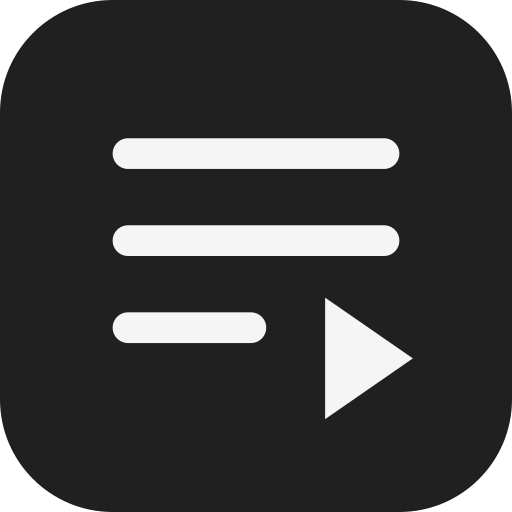
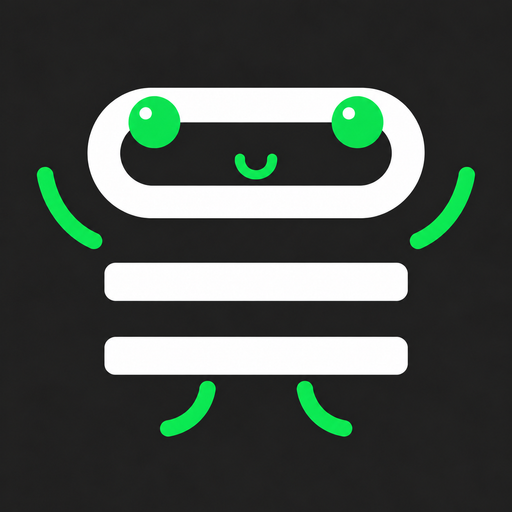
feat(branding): adopt green queue mascot for mobile app

diff --git a/mobile/app/page.tsx b/mobile/app/page.tsx
@@ -179,7 +179,7 @@ export default function Home() {
   const device = playback?.devices?.find(d => d.id === selectedDevice) ?? playback?.device;
   const nav = <>{[['queue', 'queue', 'Queue'], ['requests', 'history', 'Requests'], ['settings', 'settings', 'Settings']].map(([id, icon, label]) => <button key={id} disabled={loading} className={tab === id ? 'active' : ''} onClick={() => setTab(id)} aria-current={tab === id ? 'page' : undefined}><Icon name={icon}/><span>{label}</span></button>)}</>;
   return <div className="app-shell">
-    <header className="app-header"><a className="wordmark" href="/" aria-label="Queue Companion home"><Icon name="queue" size={25}/><span>Queue Companion</span></a><button disabled={loading} className="icon-button profile-button" aria-label="Open account settings" onClick={() => setTab('settings')}><Icon name="user" size={20}/></button></header>
+    <header className="app-header"><a className="wordmark" href="/" aria-label="Queue Companion home"><img className="brand-icon" src="/icon-192.png?v=2" width="34" height="34" alt="" aria-hidden="true"/><span>Queue Companion</span></a><button disabled={loading} className="icon-button profile-button" aria-label="Open account settings" onClick={() => setTab('settings')}><Icon name="user" size={20}/></button></header>
     <aside className="desktop-nav" aria-label="Main navigation">{nav}<p>Made for your queue.<br/>Playback stays in Spotify.</p></aside>
     <main>
       <div className="page-heading"><h1>{tab === 'queue' ? 'Queue' : tab === 'requests' ? 'Your requests' : 'Settings'}</h1>{tab === 'queue' && <button className="icon-button" aria-label="Refresh Spotify queue" disabled={!!busy || loading || cooldown > Date.now()} onClick={() => { setError(''); refresh(); }}><Icon name="refresh" size={21}/></button>}</div>

diff --git a/mobile/public/sw.js b/mobile/public/sw.js
@@ -1,8 +1,12 @@
 // Never cache account data, keys, pages, or queue writes. No background replay.
+const iconCache = 'qc-icons-v2';
 self.addEventListener('install', () => self.skipWaiting());
-self.addEventListener('activate', event => event.waitUntil(self.clients.claim()));
+self.addEventListener('activate', event => event.waitUntil((async () => {
+ await Promise.all((await caches.keys()).filter(name => name.startsWith('qc-icons-') && name !== iconCache).map(name => caches.delete(name)));
+ await self.clients.claim();
+})()));
 self.addEventListener('fetch', event => {
  const url = new URL(event.request.url);
- if (event.request.method !== 'GET' || url.origin !== self.location.origin || !/^\/(?:icon-(?:192|512)\.png|apple-touch-icon\.png|favicon\.svg)$/.test(url.pathname)) return;
- event.respondWith(caches.open('qc-icons-v1').then(async cache => { const cached = await cache.match(event.request); if (cached) return cached; const response = await fetch(event.request); if (response.ok) await cache.put(event.request, response.clone()); return response; }));
+ if (event.request.method !== 'GET' || url.origin !== self.location.origin || !/^\/(?:icon-(?:192|512|maskable-512)\.png|apple-touch-icon\.png|favicon\.(?:svg|png|ico))$/.test(url.pathname)) return;
+ event.respondWith(caches.open(iconCache).then(async cache => { const cached = await cache.match(event.request); if (cached) return cached; const response = await fetch(event.request); if (response.ok) await cache.put(event.request, response.clone()); return response; }));
 });

diff --git a/mobile/app/layout.tsx b/mobile/app/layout.tsx
@@ -4,12 +4,12 @@ import "./globals.css";
 export const metadata: Metadata = {
   title: "Queue Companion",
   description: "Choose what plays next. Add songs to your Spotify queue, then keep listening.",
-  manifest: '/manifest.webmanifest',
+  manifest: '/manifest.webmanifest?v=2',
   appleWebApp: { capable: true, title: 'Queue Companion', statusBarStyle: 'black' },
   icons: {
-    icon: "/favicon.svg",
-    shortcut: "/favicon.svg",
-    apple: '/apple-touch-icon.png',
+    icon: [{ url: '/favicon.png?v=2', type: 'image/png', sizes: '64x64' }],
+    shortcut: '/favicon.ico?v=2',
+    apple: [{ url: '/apple-touch-icon.png?v=2', sizes: '180x180', type: 'image/png' }],
   },
 };
 export const viewport: Viewport = { width: 'device-width', initialScale: 1, viewportFit: 'cover', themeColor: '#121212' };

diff --git a/mobile/app/globals.css b/mobile/app/globals.css
@@ -6,3 +6,4 @@
 
 .device-recovery{border-left:2px solid #1ed760;padding:4px 0 4px 15px;margin:15px 0 22px}.device-recovery p{font-size:13px;line-height:1.7;color:#b3b3b3;margin-bottom:12px}.device-recovery .secondary-button{display:inline-flex}
 .sign-in-prompt{background:var(--panel);border-radius:9px;padding:20px;margin-bottom:25px}.sign-in-prompt p{font-size:13px;line-height:1.65;color:var(--muted);margin:10px 0 17px}.sign-in-prompt .primary-button{max-width:100%}
+.brand-icon{display:block;flex-shrink:0;object-fit:contain;border-radius:7px}

diff --git a/mobile/README.md b/mobile/README.md
@@ -100,3 +100,11 @@ The app refreshes device IDs immediately before sending, combines available-devi
 If Spotify refuses activation, the generated list remains saved for ten minutes. Choose **Open first song in Spotify**, tap Play in Spotify, then return and send the saved selection. This uses the first generated song instead of a throwaway track. Returning or reloading restores the same visitor-owned selection using an opaque session identifier and numeric kept-song indexes (review removals survive the handoff); it makes no new AI request and does not automatically send or replay music. Expired selections remain unavailable.
 
 Spotify documents that iOS App Remote needs an app switch to resume a disconnected paused client, and its native SDK uses a play URI to wake Spotify: [application lifecycle](https://developer.spotify.com/documentation/ios/concepts/application-lifecycle), [initial music configuration](https://developer.spotify.com/documentation/ios/getting-started). A web app cannot guarantee waking a suspended native Spotify client. No background keep-alive loop or native SDK capability is claimed here.
+
+## App icon
+
+The green queue mascot is the app brand, browser icon and iOS Home Screen icon. The master artwork is `public/queue-companion-artwork.png`; run `node scripts/icons.mjs` to regenerate opaque PNG exports, the padded maskable icon, and browser favicons. Metadata and the manifest use versioned icon URLs; the service worker clears only obsolete icon caches and never caches accounts or API requests.
+
+Artwork was made with the built-in image-generation tool from the user's sketch: a polished white queue capsule and two bars, circular eyes, a smile, curved arms and legs on charcoal. The final edit prompt changed only the red details to Spotify-style green while preserving the character, geometry and framing.
+
+Existing iPhone Home Screen installations may retain their old icon. Open the updated site in Safari and add it to the Home Screen again if necessary.
